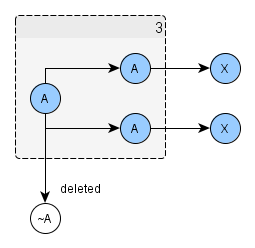
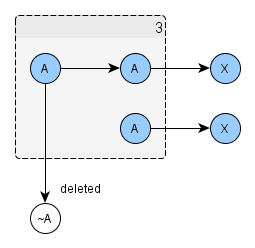
more pictures

Changed region(s): [[0.1098, 0.1976, 0.2471, 0.4798], [0.1922, 0.4798, 0.4667, 0.5363]]

diff --git a/README.md b/README.md
@@ -23,16 +23,18 @@ struct TestNumberCrash : public crashes::on<3>::copies {};
 
 
 ````cpp
-struct TestCopyNrCrash : public crashes::after<2>::copies {};
+struct TestCopyNrCrash : public crashes::after<3>::copies {};
 ````
-- crashes on any second copy of the original object
-- doesn't crash on 2 total instances of the class 
+![after 3 copies](/doc/img/after_copies.png)
+- crashes on any 3rd copy of the original object
+- doesn't crash on 3 total instances of the class 
 
 ---
 
 ````cpp
 struct TestTotalNrCrash : public crashes::on_total<3,TestTotalNrCrash>::instances {};
 ````
+![on total 3 instances](/doc/img/on_total_instances.png)
 - crashes on instantiation of an object if 2 objects are alive
 - doesn't crash on any creation if the total amount of instances is below 2
 
@@ -41,6 +43,7 @@ struct TestTotalNrCrash : public crashes::on_total<3,TestTotalNrCrash>::instance
 ````cpp
 struct TestAfterTotalNrCrash : public crashes::after_total<3,TestAfterTotalNrCrash>::instances {};
 ````
+![after total 3 instances](/doc/img/after_total_instances.png)
 - crashes after a third object instantiation of the class
 
 ---
